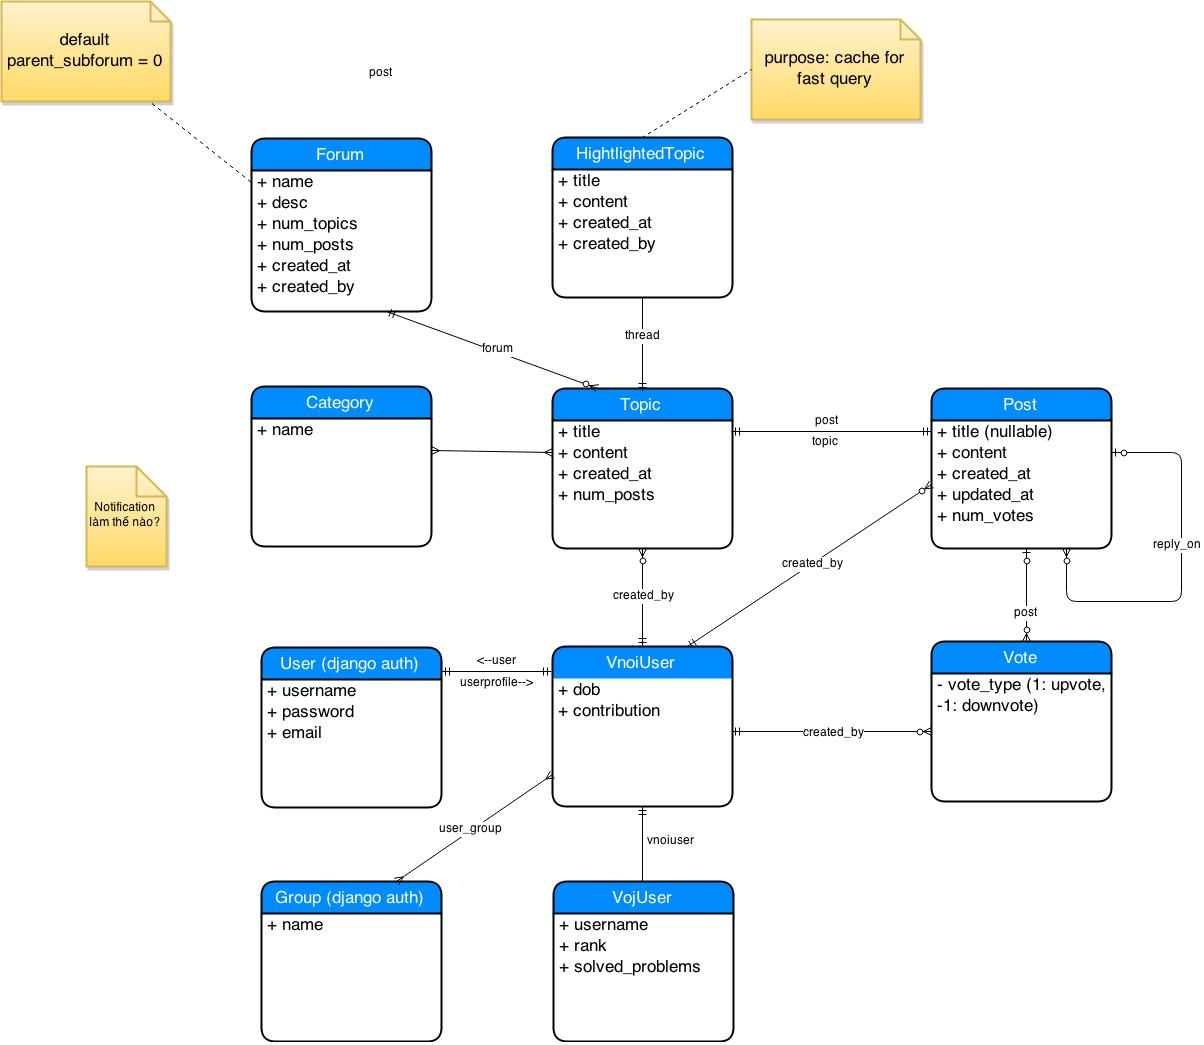
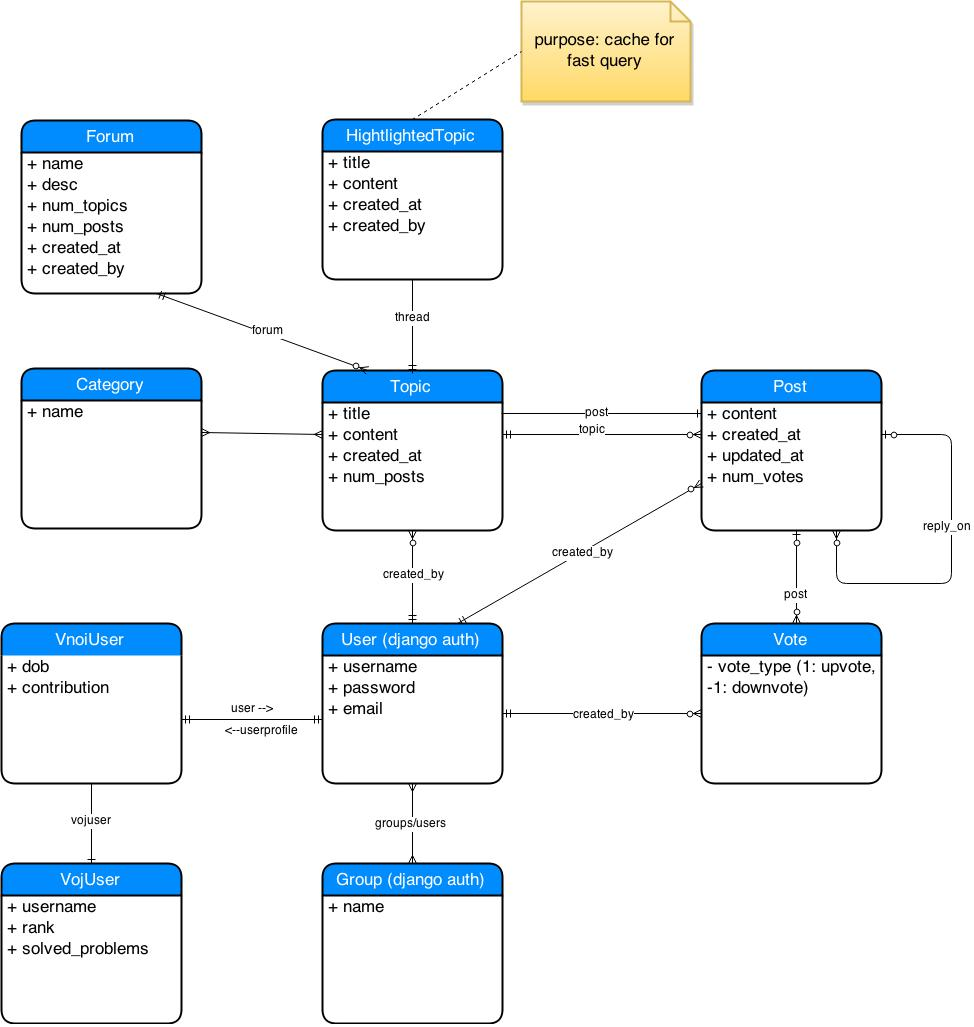
update ER diagram

diff --git a/documents/database/vnoi_database_(guide).md b/documents/database/vnoi_database_(guide).md
@@ -8,12 +8,11 @@
 
 ### Thành phần
 - Bao gồm 2 thành phần chính
-	1. Thực thể (Entity) và thuộc tính (attribute) của nó
-	2. Mối quan hệ (hay liên kết) giữa các thực thể 
+    1. Thực thể (Entity) và thuộc tính (attribute) của nó
+    2. Mối quan hệ (hay liên kết) giữa các thực thể 
 	   - Tên của mối quan hệ
        - Cardinality và Ordinality, lần lượt biểu thị số lượng lớn nhất và nhỏ nhất liên kết giữa 2 entity có thể có, được biểu diễn dưới dạng line với nhiều notation khác nhau. 
        [see Cardinality and ordinality Notation](https://github.com/VNOI-Admin/vnoiwebsite/blob/master/documents/database/ERnotation.jpg)
-	     	- Many (0..n), Mandatory (bắt buộc)
 
 - Lưu í: hình dạng của các thành phần đều phải tuân theo quy tắc vẽ của ER diagram (ví dụ tên của relation phải đặt trong hình thoi, entity đặt trong hình chữ nhật,...)
 - Ngoài ra, một số notation để thể hiện những mối quan hệ và entity phức tạp hơn, các bạn có thể đọc thêm trên mạng.
@@ -43,34 +42,43 @@
 
 ### Ví dụ map giữa database và Django Model
 
-- Xét entity Thread và VnoiUser:
+- Xét 2 entity Topic và Post:
 
 ```
-class Thread(models.Model):
-      title = models.CharField(max_length=100)
-      content = models.TextField(max_length=200)
-      created_at = models.DateTimeField(auto_now_add=True)
-      created_by = models.ForeignKey(VnoiUser, default=0)
+class Topic(models.Model):
+    post = models.ForeignKey('Post', related_name="topic", null=True, blank=True)
+    title = models.CharField(max_length=500, null=False, blank=False)
+    content = models.TextField()
+    created_at = models.DateTimeField(auto_now_add=True)
 ```
 
 ```
-class VnoiUser(models.Model):
-	  user = models.ForeignKey(settings.AUTH_USER_MODEL)
-      dob = models.DateTimeField(auto_now_add=True)
+class Post(models.Model):
+    topic = models.ForeignKey(Topic, verbose_name='Topic', related_name='posts')
+    content = models.TextField(null=False, blank=False)
+    created_at = models.DateTimeField(auto_now_add=True)
+    reply_on = models.ForeignKey("self", related_name="reply_posts", null=True, blank=True)
 ```
-- Giải thích
-  - Các Entity đều có attribute riêng, ví dụ Thread có title, content, created_at
-  - Các Entity đều assume có pk = tên entity + ""_id", ví dụ Thread sẽ có pk = thread_id, không cần vẽ vào (thực chất sau này Django lúc tạo bảng database từ Model sẽ tự động generate ra)
-  - Mối quan hệ giữa Thread và VnoiUser là "many optional to one mandatory", có nghĩa là "1 Thread is created by exactly 1 VnoiUser", "1 VnoiUser can create 0 or many Thread", vì thế bảng VnoiUser không cần lưu thông tin của các Thread mà VnoiUser đó tạo ra, mối liên kêt chỉ cần lưu trong Thread với attribute "created_at" (sử dụng tên của relation vẽ trên diagram)
+
+
+####Giải thích
+  - Định nghĩa Topic: Giống như Thread trong các forum bình thường, user tạo ra để những user khác có thể comment.
+  - Định nghĩa Post: 1 Post có thể là 1 Thread, comment của một post hoặc comment của một comment
+  - Có 2 mối quan hệ giữa Topic và Post:
+  
+       1. Quan hệ 1 - 1 giữa Topic và Post: Ứng với một topic là một post. Khi một post được tạo ra, mà post đó không phải là comment của một post khác, thì nó sẽ là một topic, ta cần thêm topic đó vào topic table trong db. Để tạo ra một topic, ta cần biết topic đó ứng với post nào, do đó trong bảng Topic cần lưu post tương ứng. (see Topic.post)
+     
+    2. Quan hệ 1 mandatory - many optional giữa Topic và Post: ""Một post chỉ thuộc một topic, một topic có thể có nhiều post". Như vậy bảng Topic không cần chứa id tất cả các posts mà nó có, mối quan hệ chỉ cần lưu trong bảng Post vs attribute "topic" (see Post.topic)
+     
  - Django cho phép biểu thị những mối quan hệ giữa các model [django model relationship API](https://docs.djangoproject.com/en/1.7/topics/db/examples/) 
   
   
 ### Notes (một số notes trong phần design hiện tại)
-- HighlightedThread:
-	- Highlighted Threads luôn được hiển thị trên homepage, vì thế số lần phải query những threads này để hiện thị rất cao. Có 2 cách để query những threads đc highlight:
-	1. Thread có 1 attribute *flag_highlighted* = true/false 
-	2. Tạo một bảng database khác chứa những Thread đc highlight (ở đây là bảng HighlightedThread)
+- HighlightedTopic:
+	- Highlighted Topic luôn được hiển thị trên homepage, vì thế số lần phải query những topics này để hiện thị rất cao. Có 2 cách để query những topics đc highlight:
+	1. Topic có 1 attribute *flag_highlighted* = true/false 
+	2. Tạo một bảng database khác chứa những Topic đc highlight (ở đây là bảng HighlightedThread)
 	3. Chưa nghĩ ra =))
- 	- ở cách 1., do số lượng Thread trong bảng sẽ rất lớn, query sẽ lâu nên ta chọn cách 2. Mỗi lần một Thread đc highlight, nó sẽ đc add vào bảng HighlightedThread, tương tự khi xoá highlight thì nó sẽ bị xoá đi khỏi bảng.
+ 	- ở cách 1., do số lượng Topic trong bảng sẽ rất lớn, query sẽ lâu nên ta chọn cách 2. Mỗi lần một Topic đc highlight, nó sẽ đc add vào bảng HighlightedTopic, tương tự khi xoá highlight thì nó sẽ bị xoá đi khỏi bảng.
 
 
